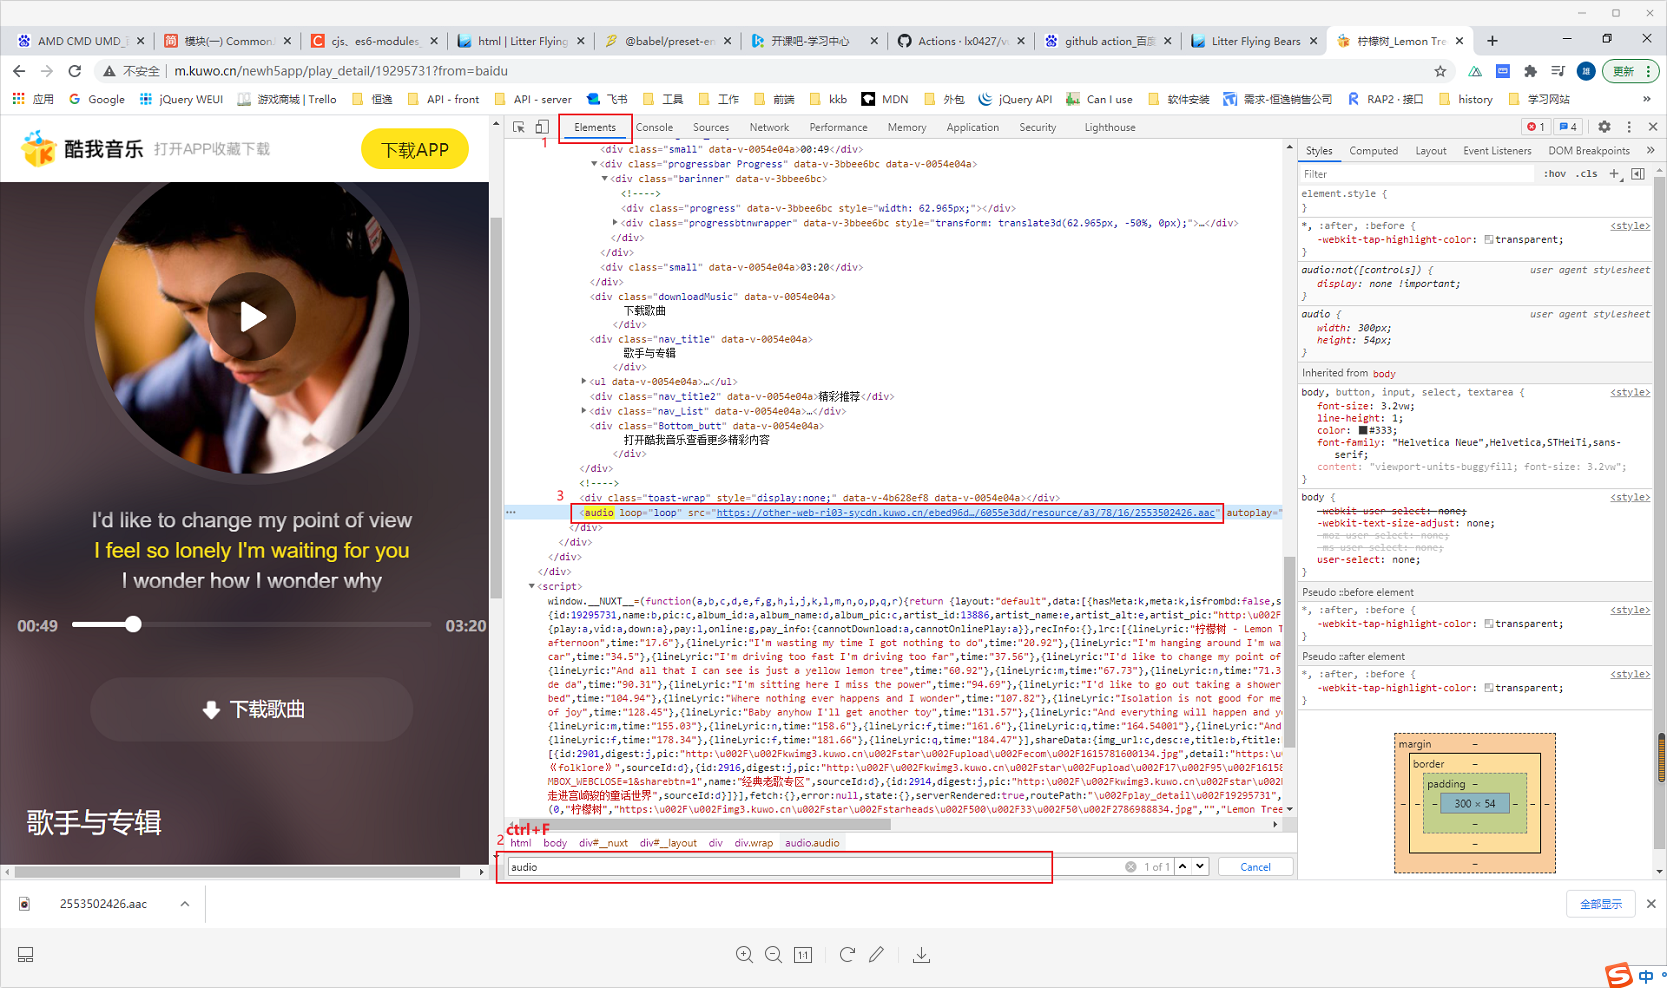
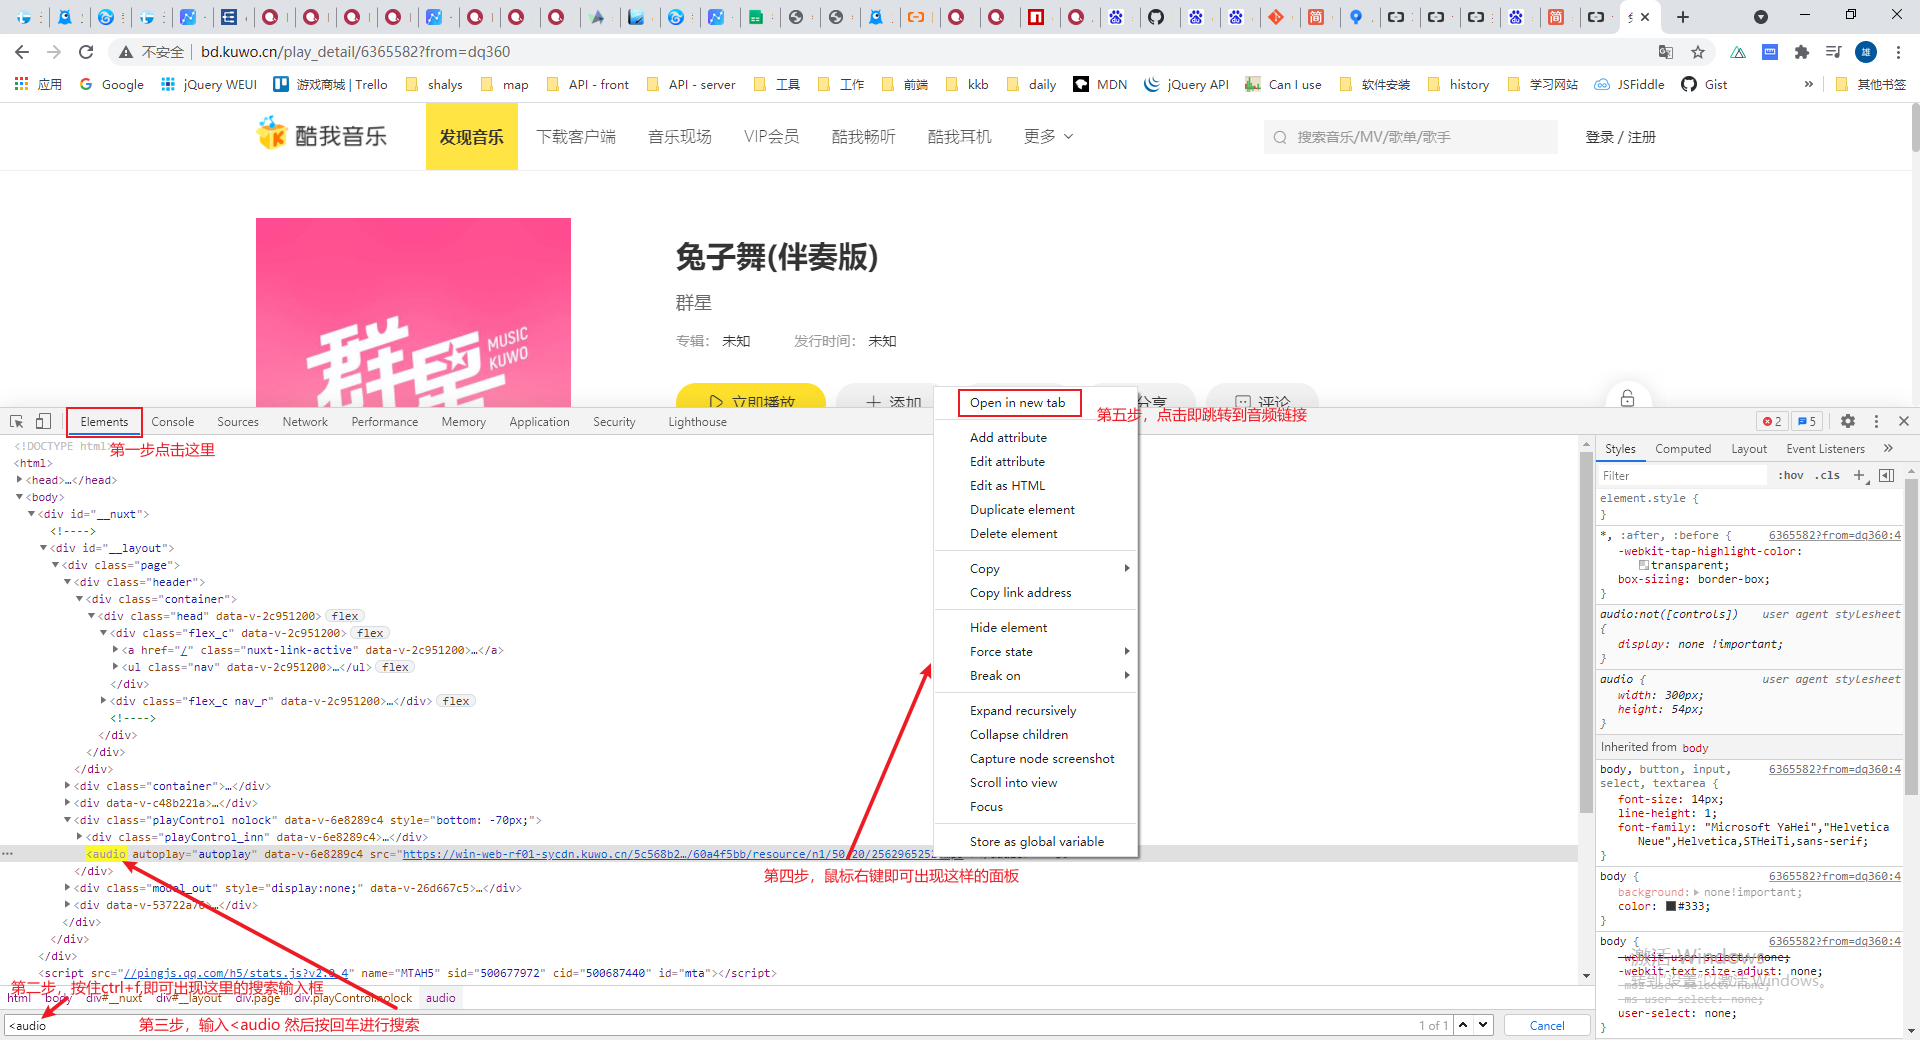
update

diff --git a/docs/echarts/map.md b/docs/echarts/map.md
@@ -1,0 +1,155 @@
+# map
+
+## 示例
+
+```vue
+<template>
+    <div class="map_area" ref="geoMap"></div>
+</template>
+
+<script>
+import * as echarts from 'echarts';
+export default {
+    data() {
+        return {
+            myChart: null,
+        };
+    },
+    mounted() {
+        this.init();
+    },
+    methods: {
+        init() {
+            this.myChart = echarts.init(this.$refs.geoMap);
+            let geoJson = require('./tianjin.json');
+            echarts.registerMap('tianjin', geoJson);
+            this.drawMap();
+        },
+        async drawMap() {
+            let option = {
+                backgroundColor: '#000020', // 全局背景
+                // 工具栏设置
+                legend: {
+                    orient: 'vertical',
+                    top: 20,
+                    left: 20,
+                    data: [
+                        // 展示信息
+                        { name: '失能评估申请' },
+                        { name: '符合享受待遇' },
+                    ],
+                    itemStyle: {
+                        color: '#0be5f2', // 选中图标颜色
+                    },
+                    textStyle: {
+                        color: '#0be5f2', // 选中文字颜色
+                    },
+                    inactiveColor: 'red', // 未选中图标+文字颜色
+                    selected: {
+                        失能评估申请: false, // key对应系列名称
+                        符合享受待遇: true,
+                    },
+                    selectedMode: 'single', // 单选模式
+                },
+                tooltip: {
+                    trigger: 'item',
+                    formatter: '{a}<br/>{b}<br/>{c} (p / km2)',
+                },
+                toolbox: {
+                    show: true,
+                    orient: 'vertical',
+                    left: 'right',
+                    top: 'center',
+                    feature: {
+                        dataView: { readOnly: false },
+                        restore: {},
+                        saveAsImage: {},
+                    },
+                },
+                geo: {
+                    map: 'tianjin', // 对应registerMap名称
+                    roam: true, // 控制地图鼠标缩放与移动
+                    label: {
+                        // 区域label样式控制
+                        normal: {
+                            show: true,
+                            color: '#fff',
+                        },
+                        emphasis: {
+                            textStyle: {
+                                color: '#fff',
+                            },
+                        },
+                    },
+                    itemStyle: {
+                        normal: {
+                            areaColor: '#017fbc',
+                        },
+                        emphasis: {
+                            areaColor: 'orange',
+                            borderWidth: 0,
+                        },
+                    },
+                },
+            };
+            option.series = [
+                {
+                    name: '失能评估申请', // 系列名称
+                    coordinateSystem: 'geo',
+                    type: 'effectScatter', // 带涟漪效果标注
+                    showEffectOn: 'render', // 显示特效时机
+                    // 涟漪特效相关配置
+                    rippleEffect: {
+                        brushType: 'stroke',
+                    },
+                    // 设置图标样式
+                    itemStyle: {
+                        color: 'yellow',
+                        shadowBlur: 10,
+                        shadowColor: '#333',
+                    },
+                    symbolSize: 20, // 调整标记图标大小，每个data数据项可单独设置，优先级高于全部设置
+                    data: [
+                        {
+                            name: '蓟州区',
+                            value: [6945, 6398], // 数据来源：properties.cp中获取 6945,6418 下移20
+                        },
+                    ],
+                },
+                {
+                    name: '符合享受待遇',
+                    coordinateSystem: 'geo',
+                    type: 'scatter',
+                    symbol: 'pin', // 调整标记形状
+                    symbolSize: 40,
+                    legendHoverLink: true, // hover legend时动画效果
+                    itemStyle: {
+                        color: 'red',
+                    },
+                    data: [
+                        {
+                            name: 'hello',
+                            value: [6915, 6398],
+                        },
+                        {
+                            name: 'haha',
+                            value: [6955, 6358],
+                        },
+                    ],
+                },
+            ];
+            this.myChart.setOption(option);
+        },
+    },
+};
+</script>
+
+<style lang="less" scoped>
+.map {
+    &_area {
+        width: 800px;
+        height: 800px;
+    }
+}
+</style>
+```

diff --git a/docs/environment/tool/git.md b/docs/environment/tool/git.md
@@ -106,7 +106,7 @@ cd ~/.ssh
 # not found
 
 # 生成秘钥，回车3连
-ssh-keygen -t rsa -C "1749239438@qq.com"
+ssh-keygen -t rsa -C "lixiong@thalys.net.cn"
 ```
 
 ### 公钥添加到远程仓库
@@ -120,7 +120,37 @@ ssh-keygen -t rsa -C "1749239438@qq.com"
   # ssh-rsa ... 1749239438@qq.com
 
   # 验证下这个key是不是正常工作
-  ssh -T git@github.com
+  ssh -T git@code.aliyun.com
   # Are you sure you want to continue connecting (yes/no)? yes
   # Hi lx0427! You've successfully authenticated, but GitHub does not provide shell access.
   ```
+
+
+## 生成第二个ssh
+
+```bash
+cd ~/.ssh
+ssh-keygen -t rsa -C "lx15172413095@163.com" -f ~/.ssh/github_rsa
+cat ~/.ssh/github_rsa.pub
+```
+
+### 添加config文件
+
+> 无后缀，config
+
+```
+Host code.aliyun.com
+    HostName code.aliyun.com
+    User thalys_lixiong
+    IdentityFile ~/.ssh/id_rsa
+Host github.com
+    HostName github.com
+    User lx0427
+    IdentityFile ~/.ssh/github_rsa
+```
+### 检验是否连通
+
+```
+ssh -T git@code.aliyun.com
+ssh -T git@github.com
+```

diff --git a/docs/environment/system/media-download.md b/docs/environment/system/media-download.md
@@ -28,7 +28,7 @@ https://m.baidu.com/video/page?pd=video_page&nid=14607056791261972311&sign=12134
 
 http://m.kuwo.cn/newh5app/play_detail/19295731?from=baidu
 
-### 2.ctrl+shift+f,打开控制台
+### 2.按F12,打开控制台
 
 ### 3.如下图步骤，搜索 audio 标签，获取音频链接
 
